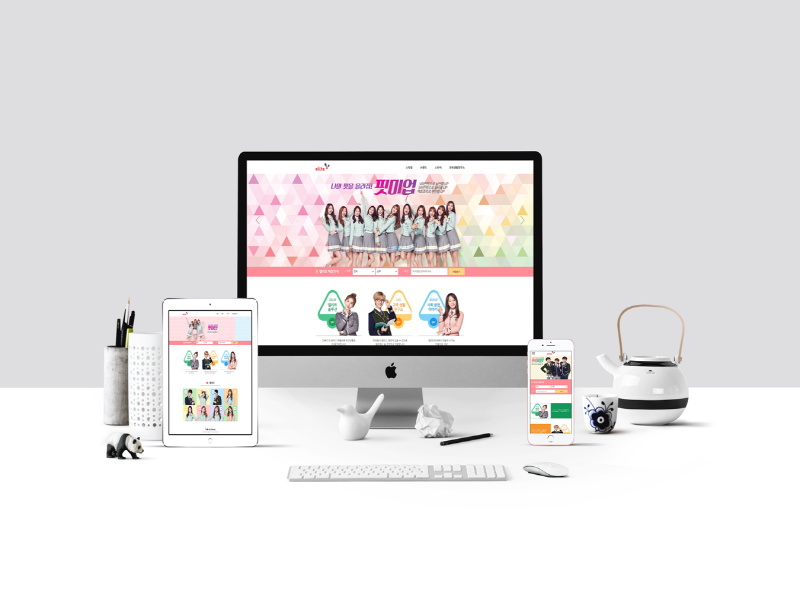
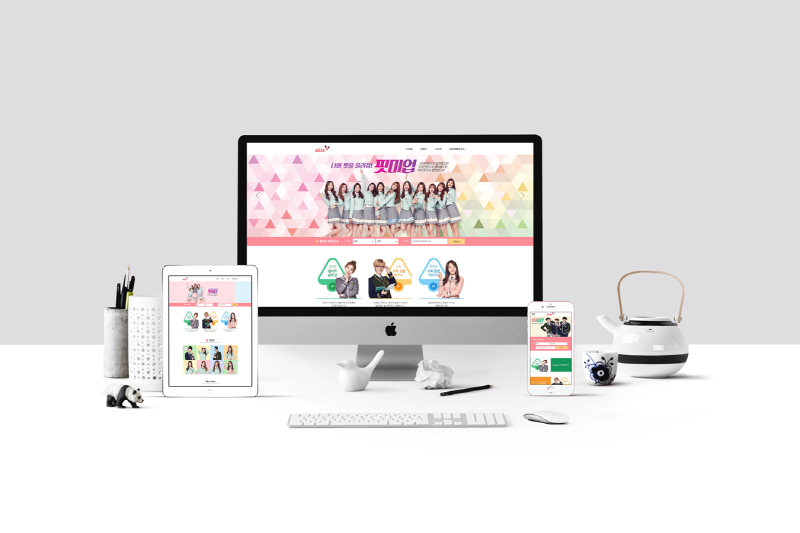
v0.21 - mobile 1개 추가 - 잘못된 resize images 교체 완료

diff --git a/css/main.css b/css/main.css
@@ -186,7 +186,7 @@ body {
 /* 디테일박스 내 이미지 삽입 구간 */
 
 .detail-box .responsive-detail-list .detail .detail-img1 {
-    background: url('../images/mockup/glovis_Mockup.png') no-repeat center center;
+    background: url('../images/mockup/glovis_mockup.png') no-repeat center center;
     background-size: cover;
 }
 
@@ -196,7 +196,7 @@ body {
 }
 
 .detail-box .responsive-detail-list .detail .detail-img3 {
-    background: url('../images/mockup/elite-Mockup.png') no-repeat center center;
+    background: url('../images/mockup/elite-mockup.png') no-repeat center center;
     background-size: cover;
 }
 
@@ -212,17 +212,17 @@ body {
 
 
 .detail-box .desktop-detail-list .detail .detail-img1 {
-    background: url('../images/mockup/dl_Mockup.png') no-repeat center center;
+    background: url('../images/mockup/dl_mockup.png') no-repeat center center;
     background-size: cover;
 }
 
 .detail-box .desktop-detail-list .detail .detail-img2 {
-    background: url('../images/mockup/vitabrid_Mockup.png') no-repeat center center;
+    background: url('../images/mockup/vitabrid_mockup.png') no-repeat center center;
     background-size: cover;
 }
 
 .detail-box .desktop-detail-list .detail .detail-img3 {
-    background: url('../images/mockup/coffine_Mockup.png') no-repeat center center;
+    background: url('../images/mockup/coffine_mockup.png') no-repeat center center;
     background-size: cover;
 }
 
@@ -232,12 +232,12 @@ body {
 }
 
 .detail-box .desktop-detail-list .detail .detail-img5 {
-    background: url('../images/mockup/lotte_Mockup.png') no-repeat center center;
+    background: url('../images/mockup/lotte_mockup.png') no-repeat center center;
     background-size: cover;
 }
 
 .detail-box .desktop-detail-list .detail .detail-img6 {
-    background: url('../images/mockup/samyang_Mockup.png') no-repeat center center;
+    background: url('../images/mockup/samyang_mockup.png') no-repeat center center;
     background-size: cover;
 }
 
@@ -247,27 +247,27 @@ body {
 }
 
 .detail-box .desktop-detail-list .detail .detail-img8 {
-    background: url('../images/mockup/ikea_Mockup.png') no-repeat center center;
+    background: url('../images/mockup/ikea_mockup.png') no-repeat center center;
     background-size: cover;
 }
 
 .detail-box .desktop-detail-list .detail .detail-img9 {
-    background: url('../images/mockup/posco_Mockup.png') no-repeat center center;
+    background: url('../images/mockup/posco_mockup.png') no-repeat center center;
     background-size: cover;
 }
 
 .detail-box .desktop-detail-list .detail .detail-img10 {
-    background: url('../images/mockup/samsung_Mockup.png') no-repeat center center;
+    background: url('../images/mockup/samsung_mockup.png') no-repeat center center;
     background-size: cover;
 }
 
 .detail-box .desktop-detail-list .detail .detail-img11 {
-    background: url('../images/mockup/lesportsac_Mockup.jpg') no-repeat center center;
+    background: url('../images/mockup/lesportsac_mockup.jpg') no-repeat center center;
     background-size: cover;
 }
 
 .detail-box .desktop-detail-list .detail .detail-img12 {
-    background: url('../images/mockup/podo_Mockup.jpg') no-repeat center center;
+    background: url('../images/mockup/podo_mockup.jpg') no-repeat center center;
     background-size: cover;
 }
 
@@ -292,6 +292,11 @@ body {
     background-size: cover;
 }
 
+.detail-box .mobile-detail-list .detail .detail-img5 {
+    background: url('../images/mockup/amc_mockup.png') no-repeat center center;
+    background-size: cover;
+}
+
 
 .detail-box .etc-detail-list .detail .detail-img1 {
     background: url('../images/youtube_output.png') no-repeat center center;
@@ -305,7 +310,7 @@ body {
     right: -100%;
     bottom: 20px;
     z-index: 10;
-    transition: all 0.5s;
+    transition: all 1s;
 }
 
 .btn_top_wrap:hover {
@@ -869,11 +874,13 @@ body {
     width: 160px;
     text-indent: -9999px;
     opacity: 0;
-    transition: opacity 0.5s;
+    transition: all 0.5s;
+    margin-top: 1rem;
 }
 
 #main .works_wrap .works_inner .works-box ul li:hover .logo-box {
     opacity: 1;
+    margin-top: 0;
 }
 
 
@@ -901,7 +908,7 @@ body {
 
 /* 반응형 썸네일 */
 #main .works_wrap .works_inner .works-box .responsive-list li a .thumbnail-box1 {
-    background: url('../images/mockup/glovis_Mockup.png') no-repeat center center;
+    background: url('../images/mockup/glovis_mockup.png') no-repeat center center;
     background-size: cover;
 }
 
@@ -911,7 +918,7 @@ body {
 }
 
 #main .works_wrap .works_inner .works-box .responsive-list li a .thumbnail-box3 {
-    background: url('../images/mockup/elite-Mockup.png') no-repeat center center;
+    background: url('../images/mockup/elite-mockup.png') no-repeat center center;
     background-size: cover;
 }
 
@@ -927,17 +934,17 @@ body {
 
 /* 데스크탑 썸네일 */
 #main .works_wrap .works_inner .works-box .desktop-list li a .thumbnail-box1 {
-    background: url('../images/mockup/dl_Mockup.png') no-repeat center center;
+    background: url('../images/mockup/dl_mockup.png') no-repeat center center;
     background-size: cover;
 }
 
 #main .works_wrap .works_inner .works-box .desktop-list li a .thumbnail-box2 {
-    background: url('../images/mockup/vitabrid_Mockup.png') no-repeat center center;
+    background: url('../images/mockup/vitabrid_mockup.png') no-repeat center center;
     background-size: cover;
 }
 
 #main .works_wrap .works_inner .works-box .desktop-list li a .thumbnail-box3 {
-    background: url('../images/mockup/coffine_Mockup.png') no-repeat center center;
+    background: url('../images/mockup/coffine_mockup.png') no-repeat center center;
     background-size: cover;
 }
 
@@ -947,12 +954,12 @@ body {
 }
 
 #main .works_wrap .works_inner .works-box .desktop-list li a .thumbnail-box5 {
-    background: url('../images/mockup/lotte_Mockup.png') no-repeat center center;
+    background: url('../images/mockup/lotte_mockup.png') no-repeat center center;
     background-size: cover;
 }
 
 #main .works_wrap .works_inner .works-box .desktop-list li a .thumbnail-box6 {
-    background: url('../images/mockup/samyang_Mockup.png') no-repeat center center;
+    background: url('../images/mockup/samyang_mockup.png') no-repeat center center;
     background-size: cover;
 }
 
@@ -962,27 +969,27 @@ body {
 }
 
 #main .works_wrap .works_inner .works-box .desktop-list li a .thumbnail-box8 {
-    background: url('../images/mockup/ikea_Mockup.png') no-repeat center center;
+    background: url('../images/mockup/ikea_mockup.png') no-repeat center center;
     background-size: cover;
 }
 
 #main .works_wrap .works_inner .works-box .desktop-list li a .thumbnail-box9 {
-    background: url('../images/mockup/posco_Mockup.png') no-repeat center center;
+    background: url('../images/mockup/posco_mockup.png') no-repeat center center;
     background-size: cover;
 }
 
 #main .works_wrap .works_inner .works-box .desktop-list li a .thumbnail-box10 {
-    background: url('../images/mockup/samsung_Mockup.png') no-repeat center center;
+    background: url('../images/mockup/samsung_mockup.png') no-repeat center center;
     background-size: cover;
 }
 
 #main .works_wrap .works_inner .works-box .desktop-list li a .thumbnail-box11 {
-    background: url('../images/mockup/lesportsac_Mockup.jpg') no-repeat center center;
+    background: url('../images/mockup/lesportsac_mockup.jpg') no-repeat center center;
     background-size: cover;
 }
 
 #main .works_wrap .works_inner .works-box .desktop-list li a .thumbnail-box12 {
-    background: url('../images/mockup/podo_Mockup.jpg') no-repeat center center;
+    background: url('../images/mockup/podo_mockup.jpg') no-repeat center center;
     background-size: cover;
 }
 
@@ -1003,7 +1010,12 @@ body {
 }
 
 #main .works_wrap .works_inner .works-box .mobile-list li a .thumbnail-box4 {
-    background: url('../images/mockup/subway_Mockup.jpg') no-repeat center center;
+    background: url('../images/mockup/subway_mockup.jpg') no-repeat center center;
+    background-size: cover;
+}
+
+#main .works_wrap .works_inner .works-box .mobile-list li a .thumbnail-box5 {
+    background: url('../images/mockup/amc_mockup.png') no-repeat center center;
     background-size: cover;
 }
 
@@ -1122,6 +1134,11 @@ body {
 
 #main .works_wrap .works_inner .works-box .mobile-list li a .logo-box4 {
     background: url('../images/logos/subway_logo.png') no-repeat center center;
+    background-size: contain;
+}
+
+#main .works_wrap .works_inner .works-box .mobile-list li a .logo-box5 {
+    background: url('../images/logos/amc_logo.png') no-repeat center center;
     background-size: contain;
 }
 

diff --git a/index.html b/index.html
@@ -443,6 +443,24 @@
                         </ul>
                     </div>
                 </div>
+                <div class="detail">
+                    <h3 class="detail-tit">서울아산병원</h3>
+                    <ul class="detail-link">
+                        <li class="detail-category">mobile</li>
+                        <li><a href="https://gonasooc.github.io/amc/" target="_blank"><i class="fas fa-external-link-alt"></i></a></li>
+                        <li><a href="https://github.com/gonasooc/amc" target="_blank"><i class="fab fa-github"></i></a></li>
+                    </ul>
+                    <a href="https://gonasooc.github.io/amc/" target="_blank">
+                        <div class="detail-img detail-img5"></div>
+                    </a>
+                    <div class="detail-feature">
+                        <!-- <p class="feature-des">Lorem ipsum dolor sit amet, consectetur adipisicing elit. Iure, commodi? Neque itaque provident cupiditate minima doloremque blanditiis? Odio nisi dolores quidem, tenetur laboriosam quos consequatur voluptas nesciunt totam qui voluptatibus!</p> -->
+                        <ul class="feature-list">
+                            <li>Swiper를 활용한 main visual slide 구현</li>
+                            <li>각 섹션별 성격을 고려한 layout 및 slide 구성</li>
+                        </ul>
+                    </div>
+                </div>
             </div>
             <div class="detail-list etc-detail-list">
                 <div class="detail">
@@ -882,6 +900,19 @@
                                     </div>
                                     <div class="txt-box">
                                         <h3 class="site-tit">SUBWAY</h3>
+                                        <p class="site-des">mobile</p>
+                                    </div>
+                                </a>
+                            </li>
+                            <li>
+                                <a href="javascript:;">
+                                    <div class="hover-mask"></div>
+                                    <div class="logo-box logo-box5">로고</div>
+                                    <div class="img-box">
+                                        <div class="thumbnail-box thumbnail-box5"></div>
+                                    </div>
+                                    <div class="txt-box">
+                                        <h3 class="site-tit">서울아산병원</h3>
                                         <p class="site-des">mobile</p>
                                     </div>
                                 </a>
